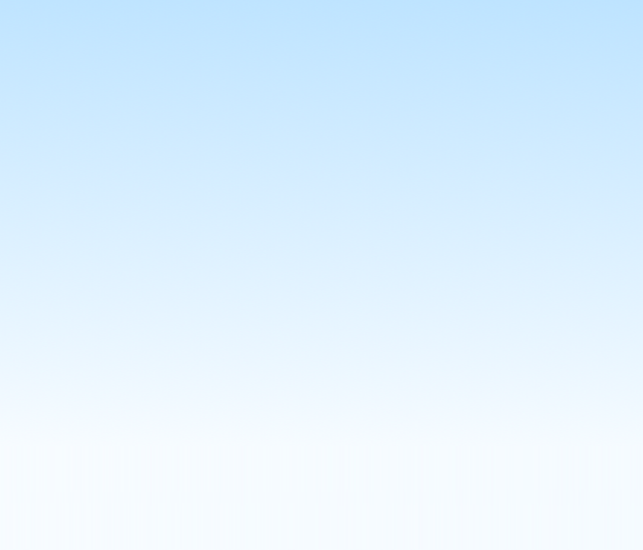
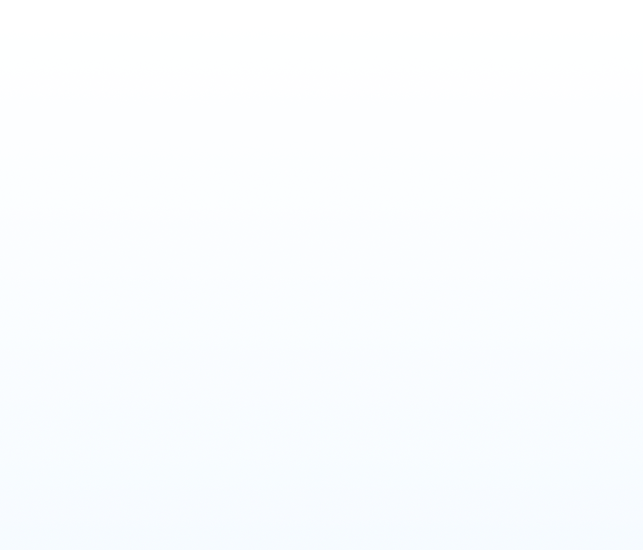
transparencio no coiso
wyeah

diff --git a/cssManeiro.css b/cssManeiro.css
@@ -15,8 +15,7 @@ body {
   padding-left: 4px;
   padding-right: 4px;
   background-image: url("/elementos/CoolAssFundo.png");
-  background-color: #f6fbff;
-  background-repeat: no-repeat;
+  background-size: 100% 100%;
 }
 
 .headerAwesome {
